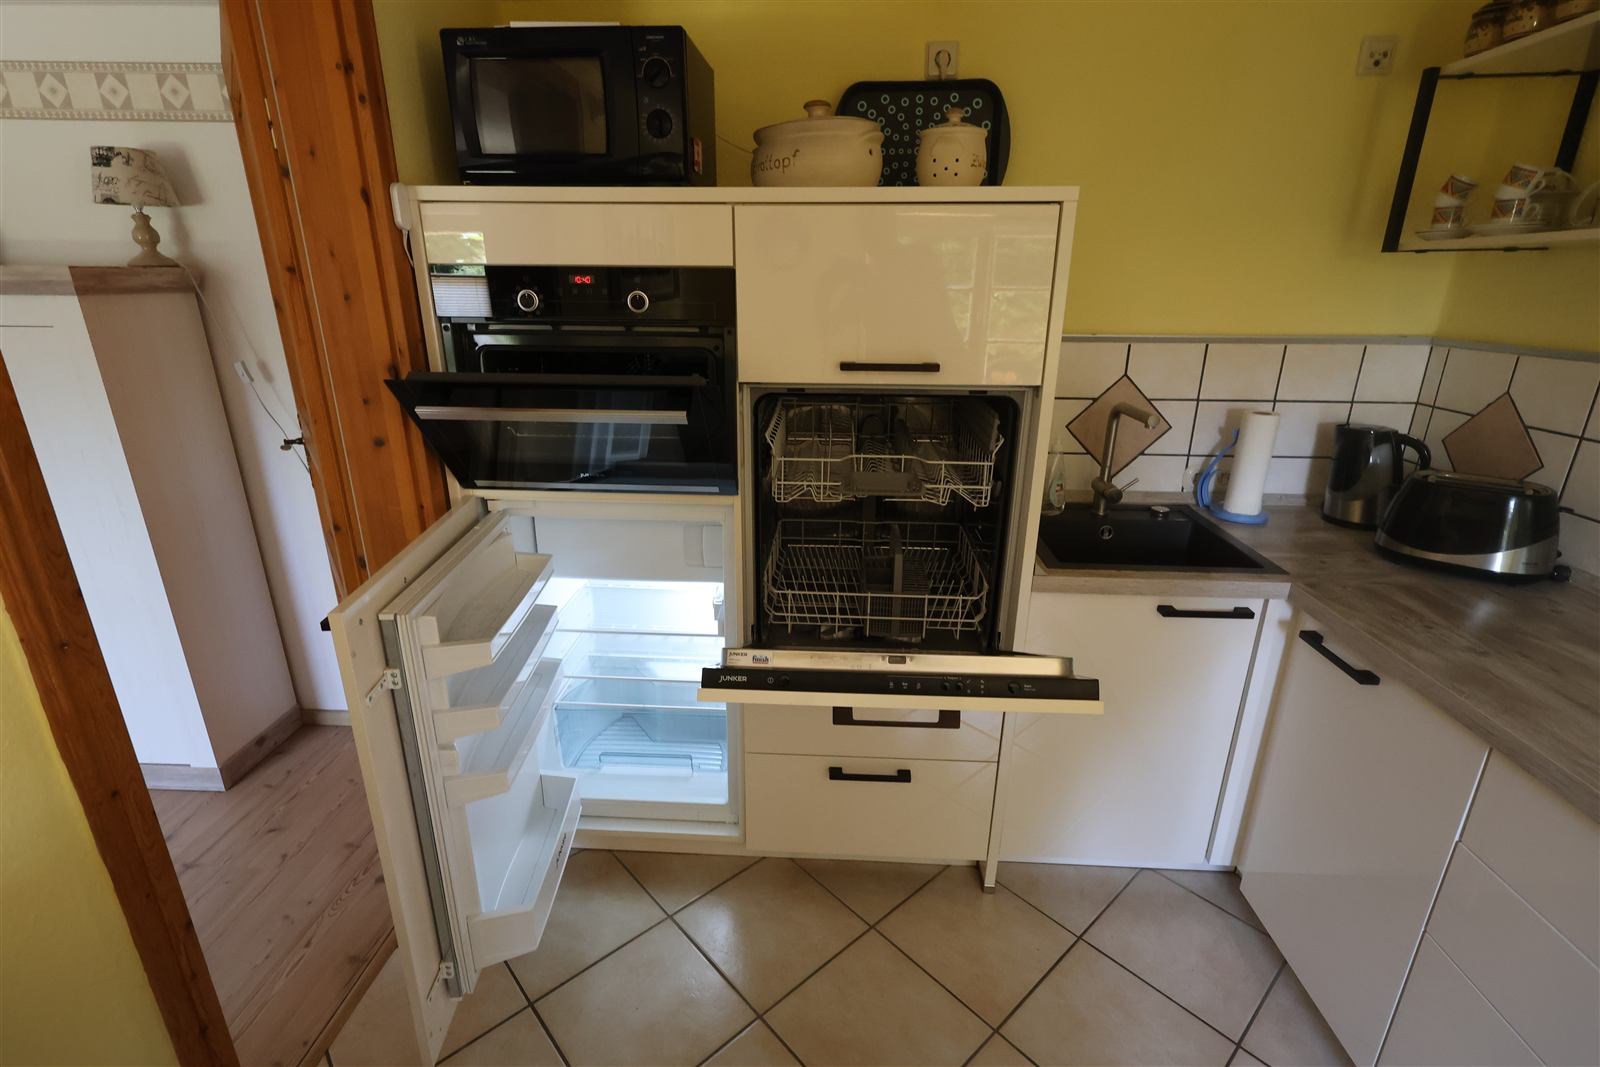
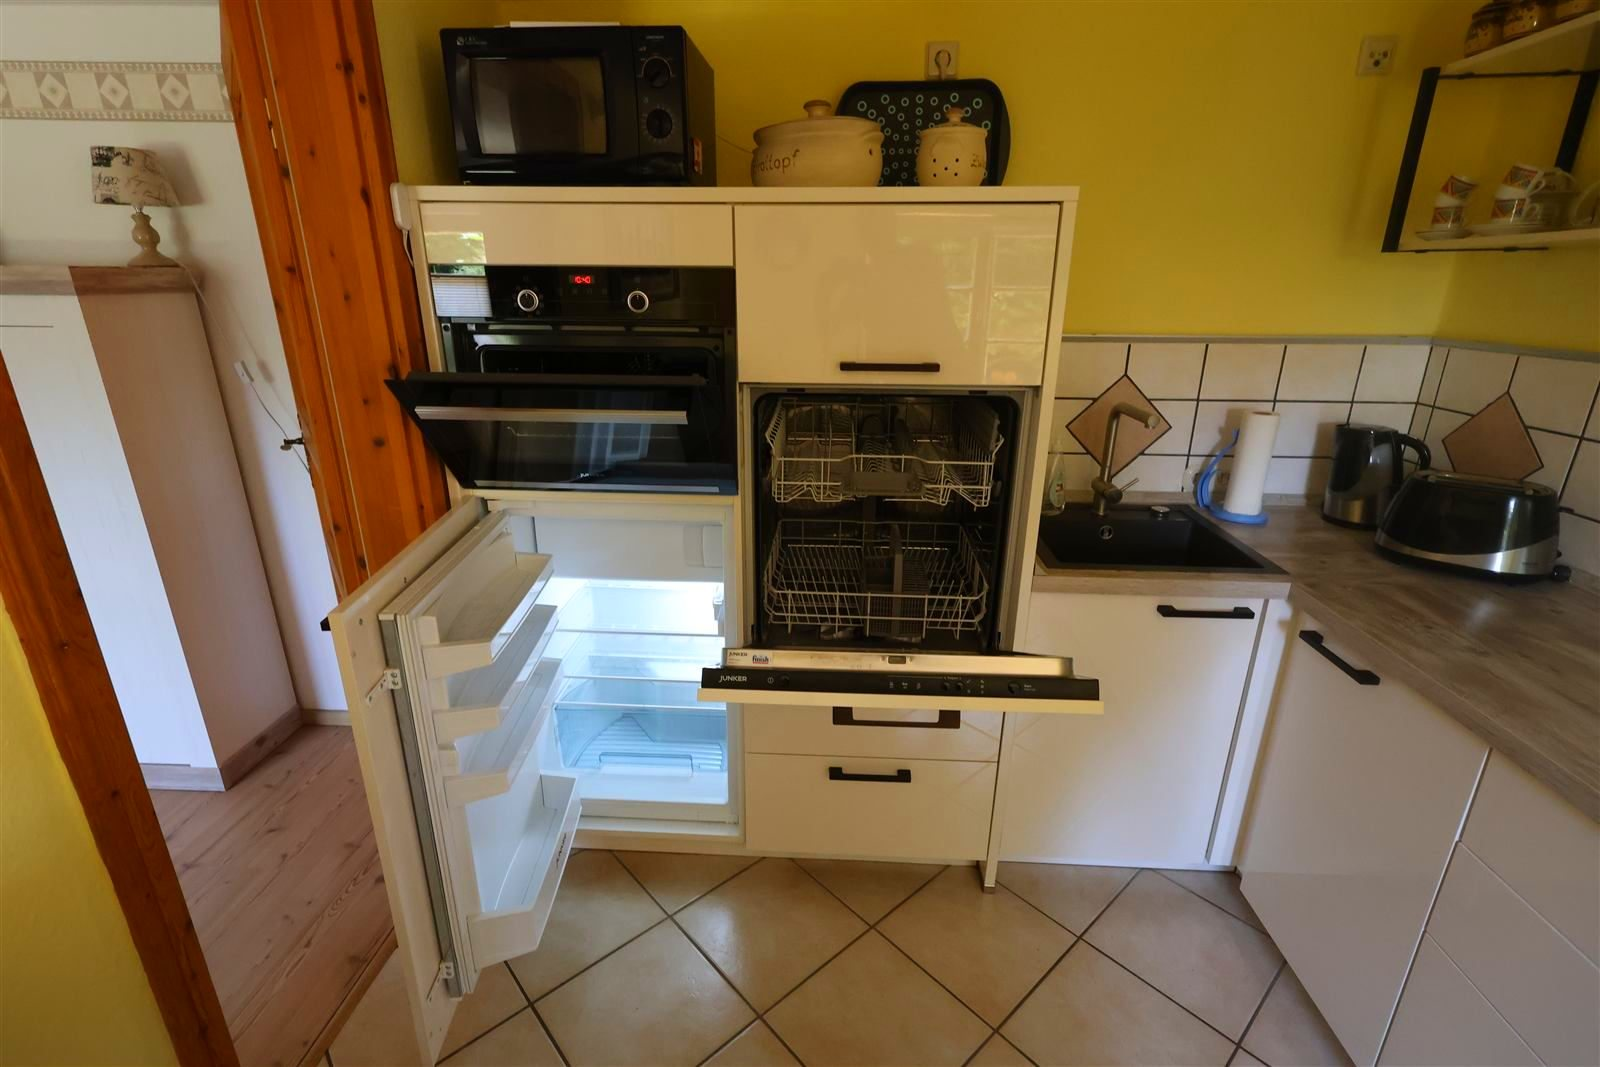
Farben der Kuechenfotos kraeftiger, Reihenfolge "Heike & Rene" vereinheitlicht

diff --git a/gaesteinformation.html b/gaesteinformation.html
@@ -160,8 +160,8 @@ span.en { display: none; }
     <div class="header-inner">
       <div class="header-pre">✦ Herzlich Willkommen · Welcome ✦</div>
       <h1>Ferienhaus<br><em>„Cottage Sächsische Schweiz"</em></h1>
-      <div class="header-location de">René &amp; Heike</div>
-      <div class="header-location en">René &amp; Heike</div>
+      <div class="header-location de">Heike &amp; René</div>
+      <div class="header-location en">Heike &amp; René</div>
       <div class="header-rule"></div>
       <div class="header-sub">Gästeinformation &nbsp;·&nbsp; Guest Information</div>
     </div>
@@ -173,7 +173,7 @@ span.en { display: none; }
       <div class="contact-icon">👤</div>
       <div>
         <div class="contact-label"><span class="de">Ihre Gastgeber</span><span class="en">Your Hosts</span></div>
-        <div class="contact-val">René &amp; Heike</div>
+        <div class="contact-val">Heike &amp; René</div>
       </div>
     </div>
     <div style="width:1px;height:40px;background:var(--border);"></div>
@@ -516,6 +516,24 @@ span.en { display: none; }
     </div>
   </div>
 
+  <!-- GÄSTETAXE -->
+  <div class="section">
+    <div class="section-header">
+      <span class="section-icon">🏛</span>
+      <div>
+        <div class="section-title-text de">Gästetaxe</div>
+        <div class="section-title-text en">City Tax</div>
+      </div>
+    </div>
+    <div class="card" style="padding:20px;display:flex;align-items:center;gap:24px;flex-wrap:wrap;">
+      <div id="qrcode-gaestetaxe" style="width:120px;height:120px;flex-shrink:0;"></div>
+      <div style="flex:1;min-width:220px;">
+        <div class="card-text de">Die Stadt Pirna erhebt eine Gästetaxe von <strong>2,00 € pro Person und Übernachtung</strong> (gültig ab 1. August 2026; Kinder unter 18 Jahren sind befreit). Alle Infos &amp; die Satzung im Wortlaut bei der Stadt Pirna: <a href="https://www.pirna.de/pirna-erleben/uebernachten/gaestetaxe/" target="_blank" rel="noopener" style="color:var(--gold);font-weight:600;">pirna.de/gaestetaxe</a></div>
+        <div class="card-text en">The city of Pirna charges a city tax of <strong>€2.00 per person and night</strong> (effective from 1 August 2026; children under 18 are exempt). Full details &amp; the official regulation from the city of Pirna: <a href="https://www.pirna.de/pirna-erleben/uebernachten/gaestetaxe/" target="_blank" rel="noopener" style="color:var(--gold);font-weight:600;">pirna.de/gaestetaxe</a></div>
+      </div>
+    </div>
+  </div>
+
   <!-- ABREISE -->
   <div class="section">
     <div class="section-header">
@@ -593,6 +611,14 @@ function setLang(lang, btn) {
     text: "https://komplexchef.github.io/ferienhaus-cottage-website/gaesteinformation.html",
     width: 160,
     height: 160,
+    colorDark: "#1e1a14",
+    colorLight: "#ffffff",
+    correctLevel: QRCode.CorrectLevel.H
+  });
+  new QRCode(document.getElementById("qrcode-gaestetaxe"), {
+    text: "https://www.pirna.de/pirna-erleben/uebernachten/gaestetaxe/",
+    width: 120,
+    height: 120,
     colorDark: "#1e1a14",
     colorLight: "#ffffff",
     correctLevel: QRCode.CorrectLevel.H
